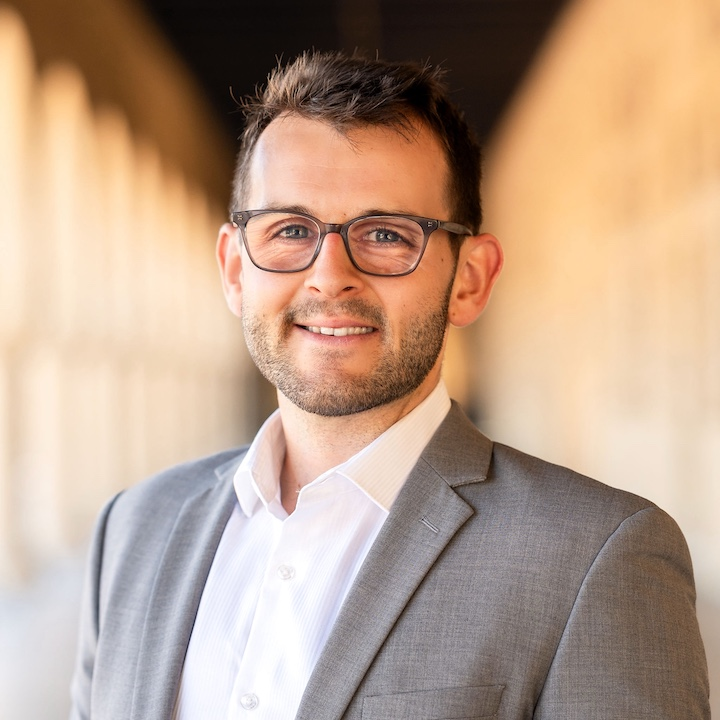
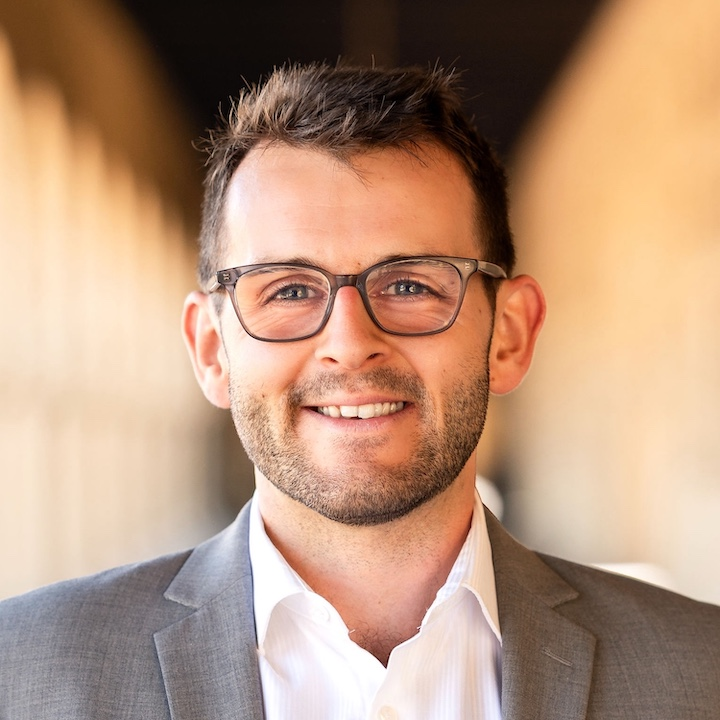
Update bio and portrait

diff --git a/static/css/style.css b/static/css/style.css
@@ -226,32 +226,39 @@ table th {
 #front {
   align-items: flex-start;
   display: flex;
-  gap: 2rem;
-  margin: 1rem 0;
+  flex-wrap: wrap;
+  gap: 1rem;
+  margin: 1rem 0 3rem;
 }
 
 #bio {
+  flex: 1 1 1rem;
   margin: auto 0;
   width: 100%;
 }
 
 #portrait {
-  border-radius: 1rem;
-  box-shadow: 0 0.25rem 0.25rem 0 #ddd;
-  display: inline;
-  float: none;
-  margin-top: 1.25rem;
+  border-radius: 100%;
+  border: 1px solid #ddd;
+  flex: 0 1 auto;
+  margin-top: 2rem;
   width: 240px;
 }
 
 @media (max-width: 780px) {
 
   #front {
-    display: block;
+    flex-direction: column;
+    gap: 0rem;
+    margin-top: 0;
+  }
+
+  #bio {
+    flex: 0 0 auto;
   }
 
   #portrait {
-    display: block;
+    order: -1;
     width: 240px;
   }
 }

diff --git a/layouts/index.html b/layouts/index.html
@@ -3,11 +3,11 @@
 <script src="{{ "js/research.js" | relURL }}"></script>
 
 <div id="front">
-  <img id="portrait" src="square.jpeg">
   <div id="bio">
     {{ .Content }}
     <a href="/cv.pdf" class="rounded-link">Download CV</a>
   </div>
+  <img id="portrait" src="square.jpeg">
 </div>
 
 {{ $wpList := where .Site.Data.research "type" "wp" }}

diff --git a/content/_index.md b/content/_index.md
@@ -1,5 +1,6 @@
 **Welcome!**
 
-I'm an economics PhD candidate at Stanford University, where I study behavioral and information economics.
-
+I'm an economics PhD candidate at Stanford University.
 My research uses theoretical and empirical tools to study how people learn, interact, and use artificial intelligence.
+
+I lived and worked in New Zealand before starting my PhD.
